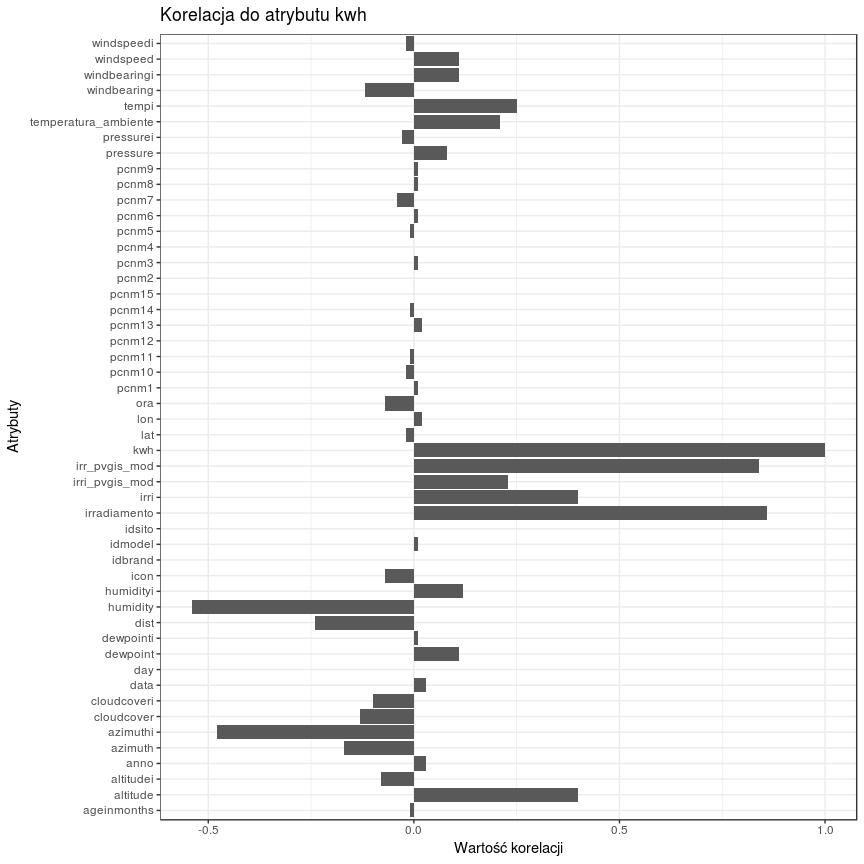
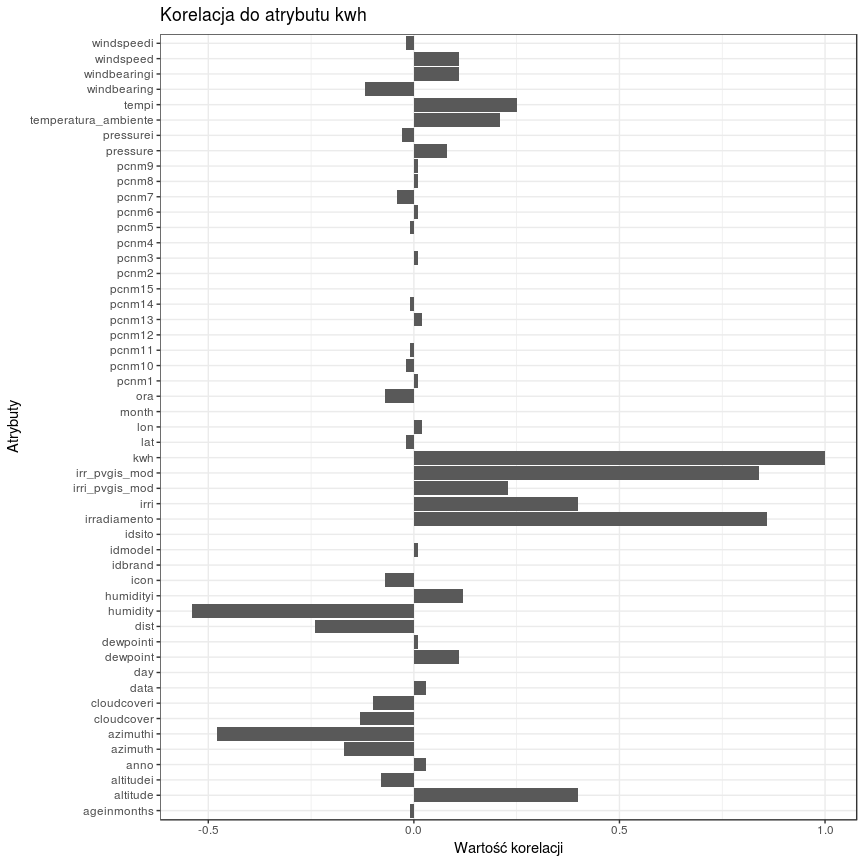
Mutate month column, update regressor description

diff --git a/README.md b/README.md
@@ -41,13 +41,15 @@ library(dplyr)
 library(ggplot2)
 library(reshape2)
 library(caret)
+library(lubridate)
 ```
 
 Zastosowanie bibliotek:  
 dplyr - do przetwarzania dataframe  
 ggplot2 - wykresy  
 reshape2 - funkcja melt  
-caret - regresor
+caret - regresor  
+lubridate - funkcja month
 
 #### Wczytanie danych z pliku .csv
 
@@ -405,6 +407,7 @@ fotowoltaicznych. Pierwsze kolumny opisują ogniwa ('idsito', 'idmodel',
 
 ``` r
 power_stations <- power_stations[, !(names(power_stations) %in% c('id'))]
+power_stations <- power_stations %>% mutate(month=month(as.POSIXct(power_stations$data, format="%m/%d/%Y %H:%M")))
 ```
 
 #### 2. Uzupełnienie brakujących wartości
@@ -483,6 +486,8 @@ ggplot(data = kwh_correlations, mapping = aes(x=rownames(kwh_correlations), y=va
   theme_bw()
 ```
 
+    ## Warning: Removed 1 rows containing missing values (position_stack).
+
 ![](README_files/figure-markdown_github/unnamed-chunk-6-1.png)
 
 ### Wykres - zmiana wytwarzanej energii przez ogniwa w czasie i przestrzeni
@@ -500,8 +505,6 @@ ggplot(data = energy_sito_date, mapping = aes(x=date_year_month, y=sum_kwh, colo
 
 ### Regresor
 
-Do utworzenia regresora użyte zostaną najbardziej skorelowane atrybuty
-
 ``` r
 power_stations_for_model <- sample_n(power_stations %>% select(idsito, irradiamento, irr_pvgis_mod, humidity, azimuthi, altitude, irri, tempi, ora, day, kwh), 50000)
 
@@ -516,7 +519,12 @@ training <- power_stations_for_model[ inTraining,]
 
 validation_testing <- power_stations_for_model[-inTraining,]
 validation_testing <- split(validation_testing, rep(c('validation', 'testing'), each=nrow(validation_testing)/2))
+```
 
+    ## Warning in split.default(x = seq_len(nrow(x)), f = f, drop = drop, ...):
+    ## data length is not a multiple of split variable
+
+``` r
 validation <- validation_testing$validation
 testing  <- validation_testing$testing
 
@@ -536,18 +544,18 @@ my_model
 
     ## Random Forest 
     ## 
-    ## 42502 samples
+    ## 42503 samples
     ##    10 predictors
     ## 
     ## No pre-processing
     ## Resampling: Cross-Validated (2 fold, repeated 2 times) 
-    ## Summary of sample sizes: 21251, 21251, 21252, 21250 
+    ## Summary of sample sizes: 21252, 21251, 21252, 21251 
     ## Resampling results across tuning parameters:
     ## 
     ##   mtry  RMSE        Rsquared   MAE       
-    ##    2    0.06820104  0.8931591  0.03585424
-    ##    6    0.06703653  0.8964805  0.03386853
-    ##   10    0.06799901  0.8933651  0.03413263
+    ##    2    0.06959389  0.8896546  0.03614580
+    ##    6    0.06850172  0.8928371  0.03442568
+    ##   10    0.06942115  0.8898588  0.03473377
     ## 
     ## RMSE was used to select the optimal model using  the smallest value.
     ## The final value used for the model was mtry = 6.
@@ -558,7 +566,7 @@ defaultSummary(data.frame(pred = my_pred, obs = validation$kwh))
 ```
 
     ##       RMSE   Rsquared        MAE 
-    ## 0.06941599 0.89134442 0.03253859
+    ## 0.06533809 0.90246021 0.03248373
 
 ``` r
 my_pred <- predict(my_model, newdata = testing)
@@ -566,7 +574,9 @@ defaultSummary(data.frame(pred = my_pred, obs = testing$kwh))
 ```
 
     ##       RMSE   Rsquared        MAE 
-    ## 0.06271518 0.90949902 0.03080102
+    ## 0.06261243 0.91494894 0.03206746
 
+Jako model wybrano Random Forest. Do utworzenia regresora zostały
+wykorzystane mocno skorelowane atrybuty z atrybutem wynikowym 'kwh'.
 Strojenie parametrów modelu odbyło się w oparciu o walidacyjny zbiór
-danych.
+danych. Celem strojenia było uzyskanie jak najmniejszej wartości RMSE.
